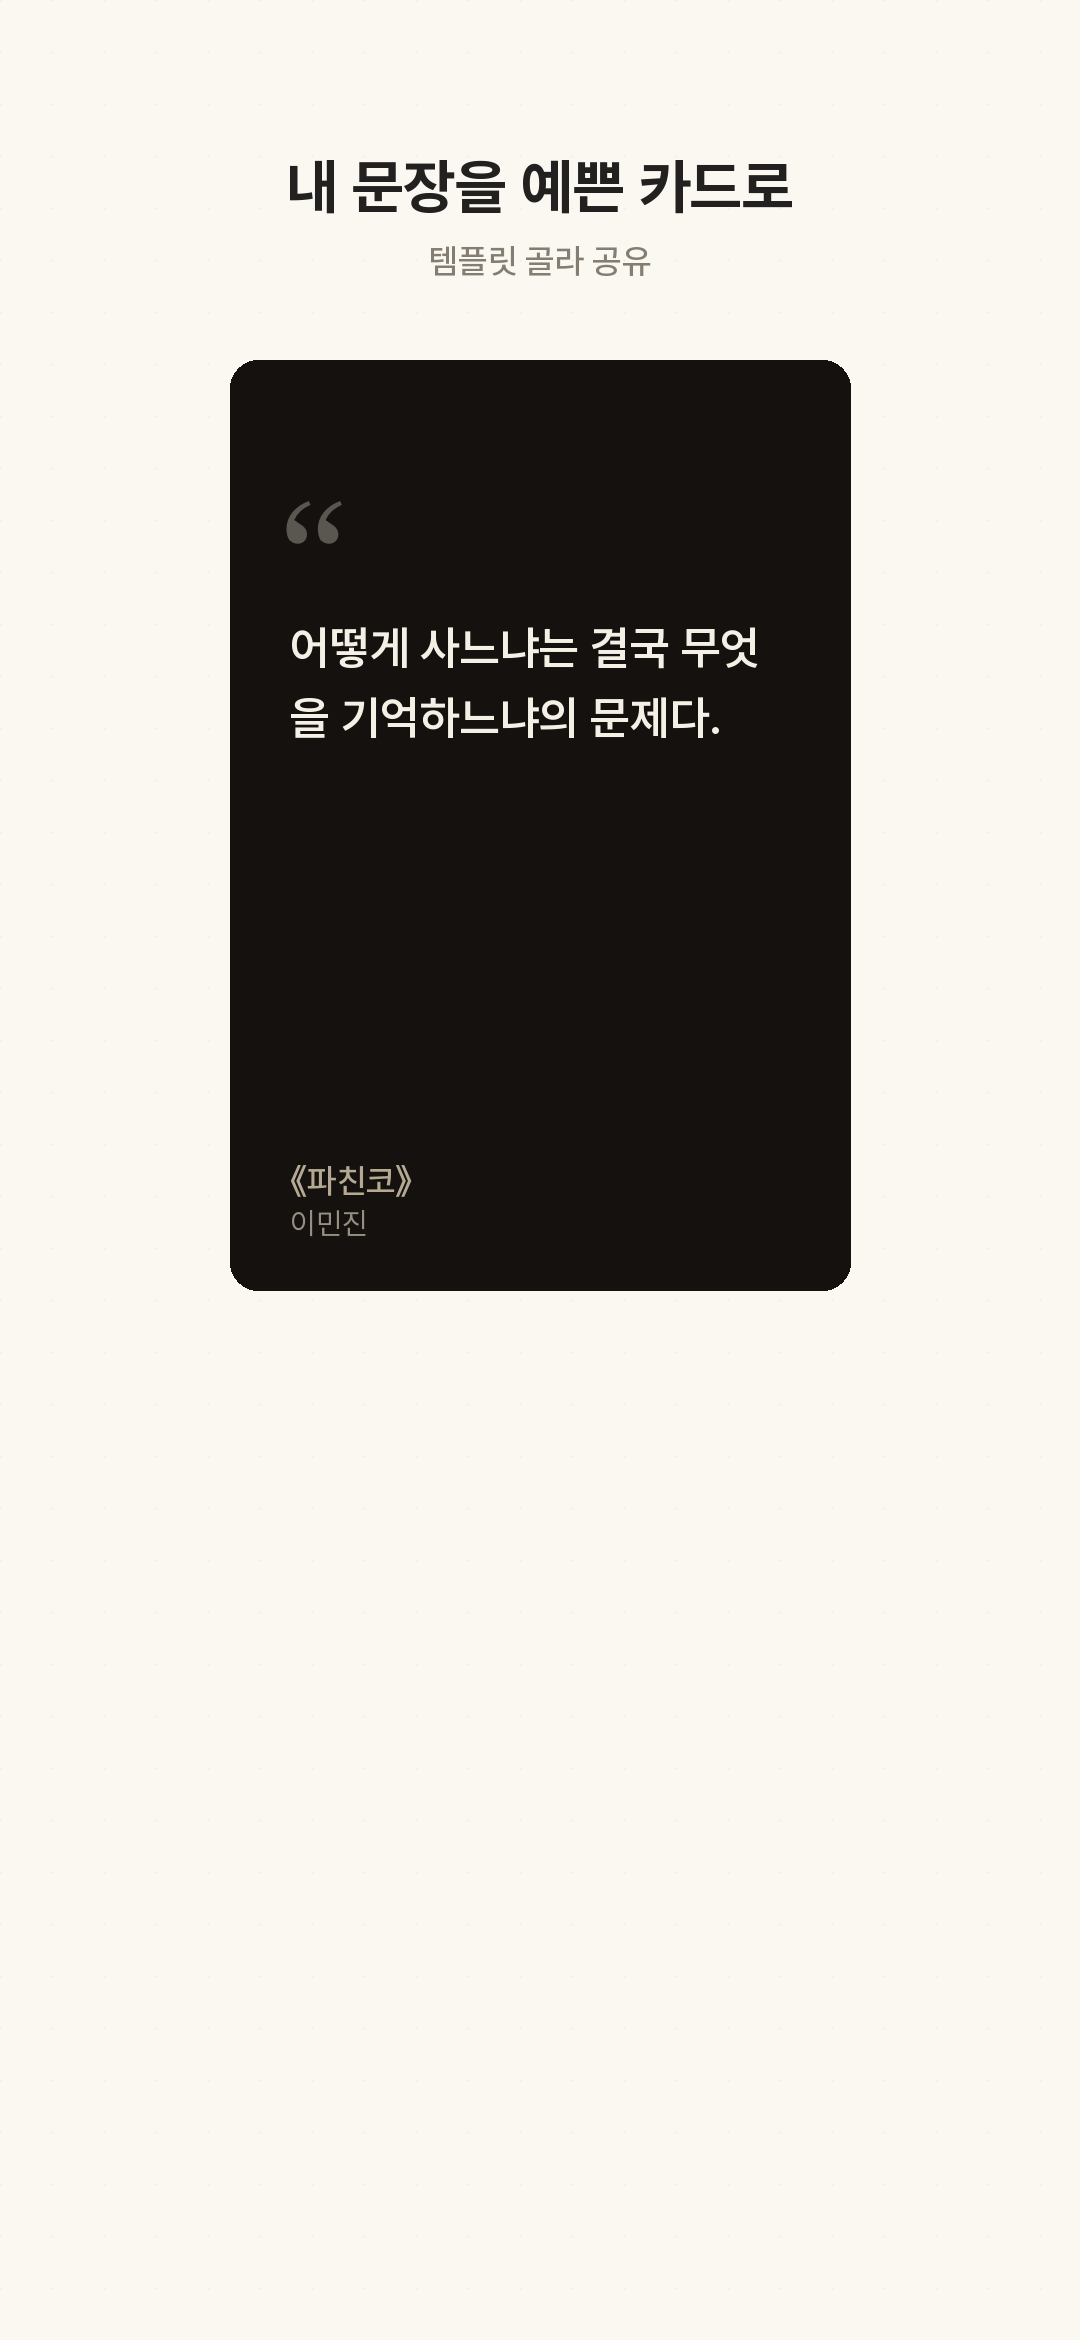
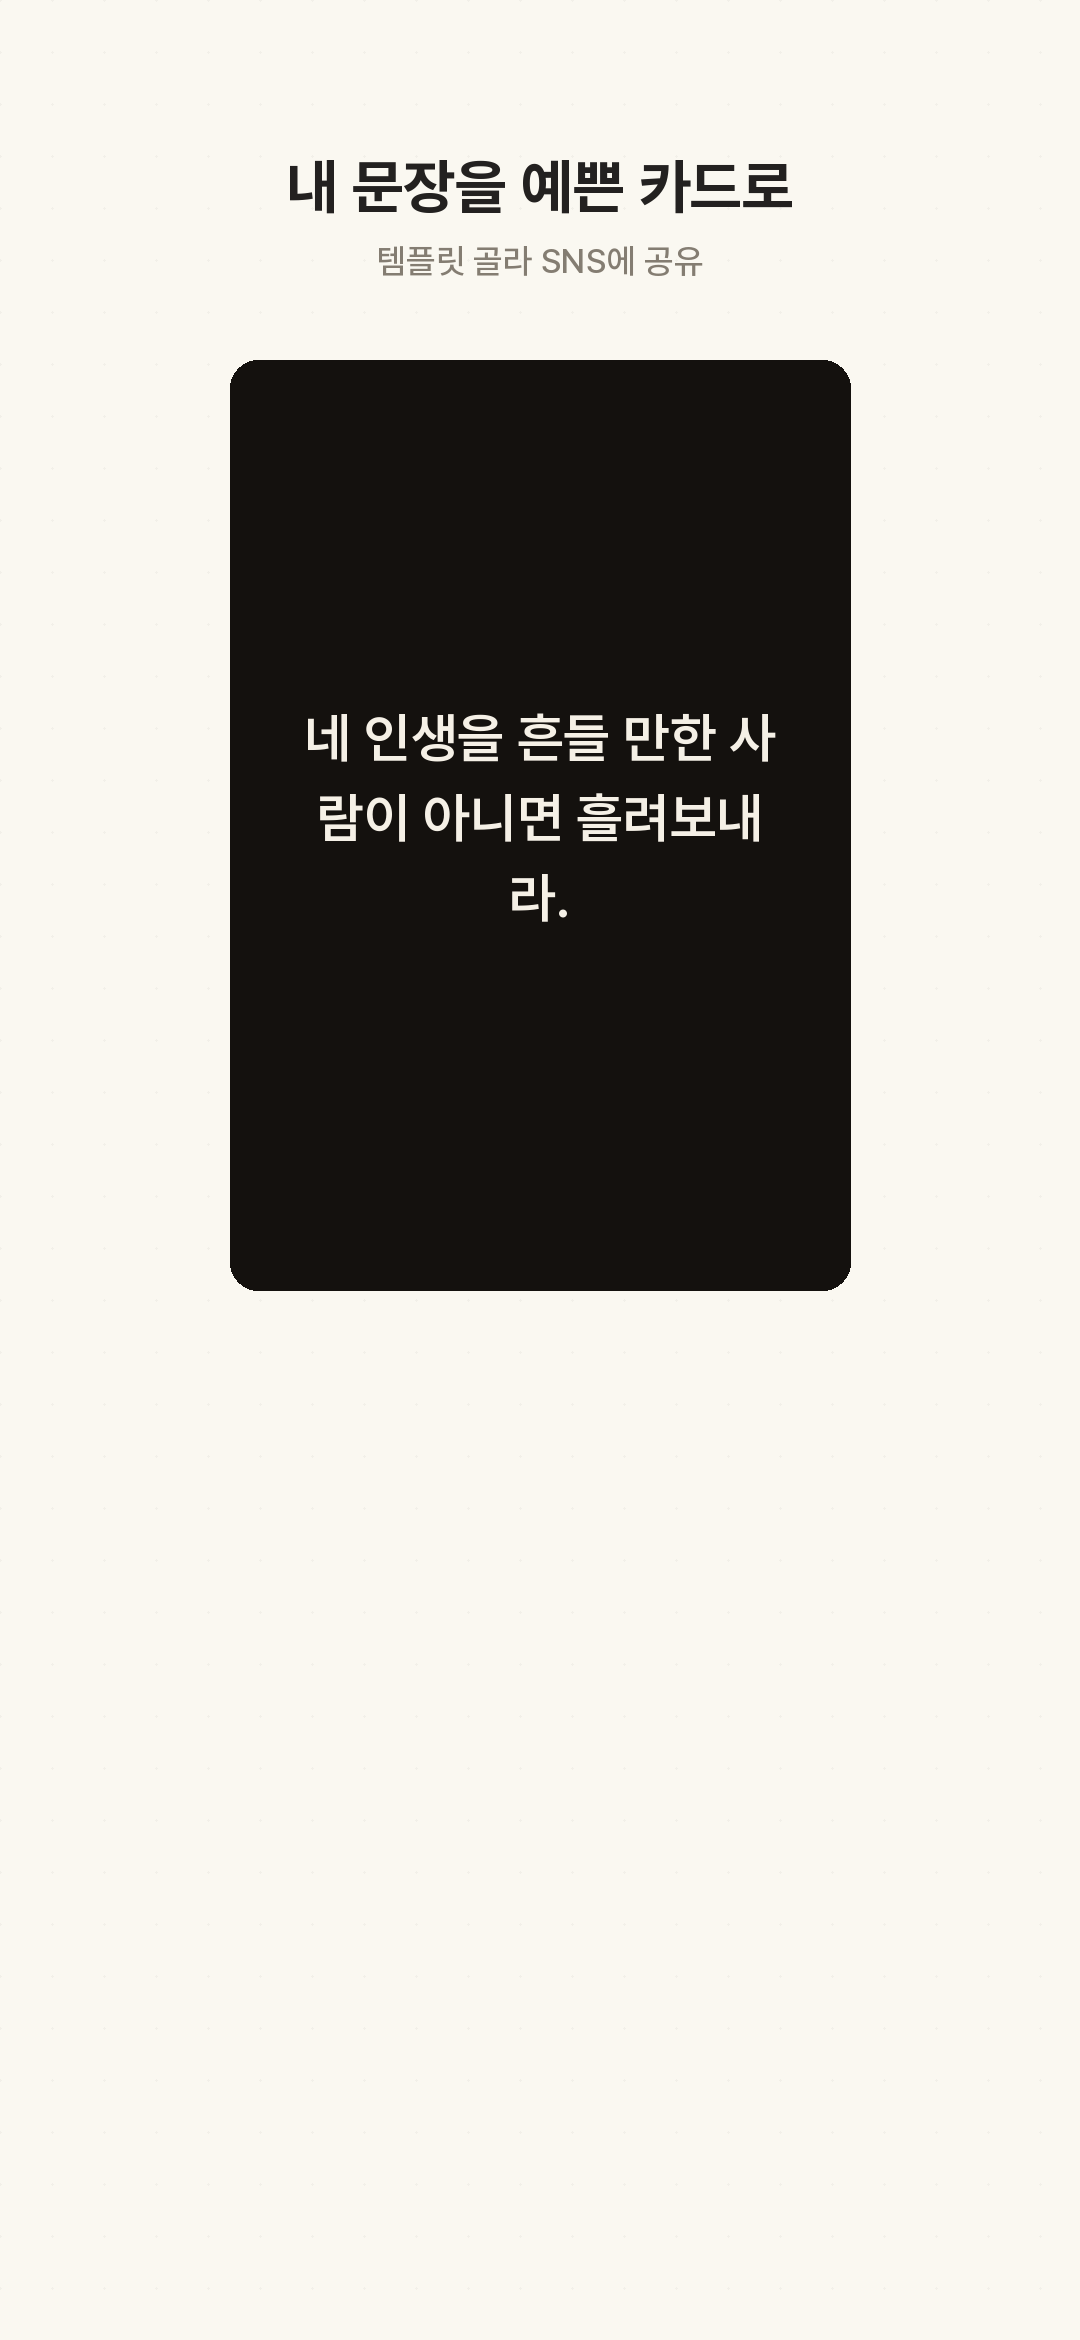
샘플 문구 교체(사용자 제공) + 스토어 스크린샷 7종(오늘/카드/OCR/공유/태그/CSV/사용자템플릿)

Changed region(s): [[0.2444, 0.2184, 0.7028, 0.4056], [0.3361, 0.0936, 0.6417, 0.1248], [0.275, 0.4991, 0.3667, 0.5303]]

diff --git a/lib/use-shared.ts b/lib/use-shared.ts
@@ -17,14 +17,12 @@ const PUB_KEY = 'hanjul-shared-pub-v1'
 const LIKE_KEY = 'hanjul-shared-likes-v1'
 
 const SEED: SharedQuote[] = [
-  { id: 's1', sentence: '우리가 어떤 일을 끝까지 해내는 건, 그 일을 사랑하기 때문이다.', bookTitle: '몰입', author: '황농문', likes: 128 },
-  { id: 's2', sentence: '사람은 자신이 본 것만큼만 세상을 이해한다.', bookTitle: '데미안', author: '헤르만 헤세', likes: 342 },
-  { id: 's3', sentence: '오늘 걷지 않으면 내일은 뛰어야 한다.', bookTitle: '언어의 온도', author: '이기주', likes: 211 },
-  { id: 's4', sentence: '어떻게 사느냐는 결국 무엇을 기억하느냐의 문제다.', bookTitle: '파친코', author: '이민진', likes: 97 },
+  { id: 's1', sentence: '우리의 최고와 최악의 모습을 다 봤으면서도 똑같이 아껴주는 사람들을 위하여.', bookTitle: 'A Crown for Christmas', author: '', likes: 312 },
+  { id: 's2', sentence: '네 인생을 흔들 만한 사람이 아니면 흘려보내라.', bookTitle: '', author: '', likes: 287 },
+  { id: 's3', sentence: '어제의 비로 오늘을 적실 필요 없듯이, 내일의 비 때문에 오늘 우산을 펼 필요는 없다.', bookTitle: '', author: '', likes: 198 },
+  { id: 's4', sentence: '우리가 듣는 모든 것은 사실이 아니라 의견일 뿐이며, 우리가 보는 모든 것은 진실이 아니라 관점일 뿐이다.', bookTitle: '명상록', author: '마르쿠스 아우렐리우스', likes: 421 },
   { id: 's5', sentence: '행복은 강도가 아니라 빈도다.', bookTitle: '굿 라이프', author: '최인철', likes: 256 },
-  { id: 's6', sentence: '좋은 문장은 다시 읽고 싶어진다.', bookTitle: '미움받을 용기', author: '기시미 이치로', likes: 180 },
-  { id: 's7', sentence: '삶이 있는 한 희망은 있다.', bookTitle: '', author: '키케로', likes: 401 },
-  { id: 's8', sentence: '내일은 내일의 태양이 뜬다.', bookTitle: '바람과 함께 사라지다', author: '마거릿 미첼', likes: 150 },
+  { id: 's6', sentence: '사람은 자신이 본 것만큼만 세상을 이해한다.', bookTitle: '데미안', author: '헤르만 헤세', likes: 342 },
 ]
 
 function loadPub(): SharedQuote[] {

diff --git a/components/template-editor.tsx b/components/template-editor.tsx
@@ -14,11 +14,11 @@ import {
 import { cn } from '@/lib/utils'
 
 const SAMPLE = {
-  sentence: '사람은 자신이 본 것만큼만 세상을 이해한다.',
-  bookTitle: '데미안',
-  author: '헤르만 헤세',
-  chapter: '3장',
-  page: '87',
+  sentence: '우리가 듣는 모든 것은 사실이 아니라 의견일 뿐이며, 우리가 보는 모든 것은 진실이 아니라 관점일 뿐이다.',
+  bookTitle: '명상록',
+  author: '마르쿠스 아우렐리우스',
+  chapter: '2권',
+  page: '11',
   cover: '/placeholder.svg',
 }
 
